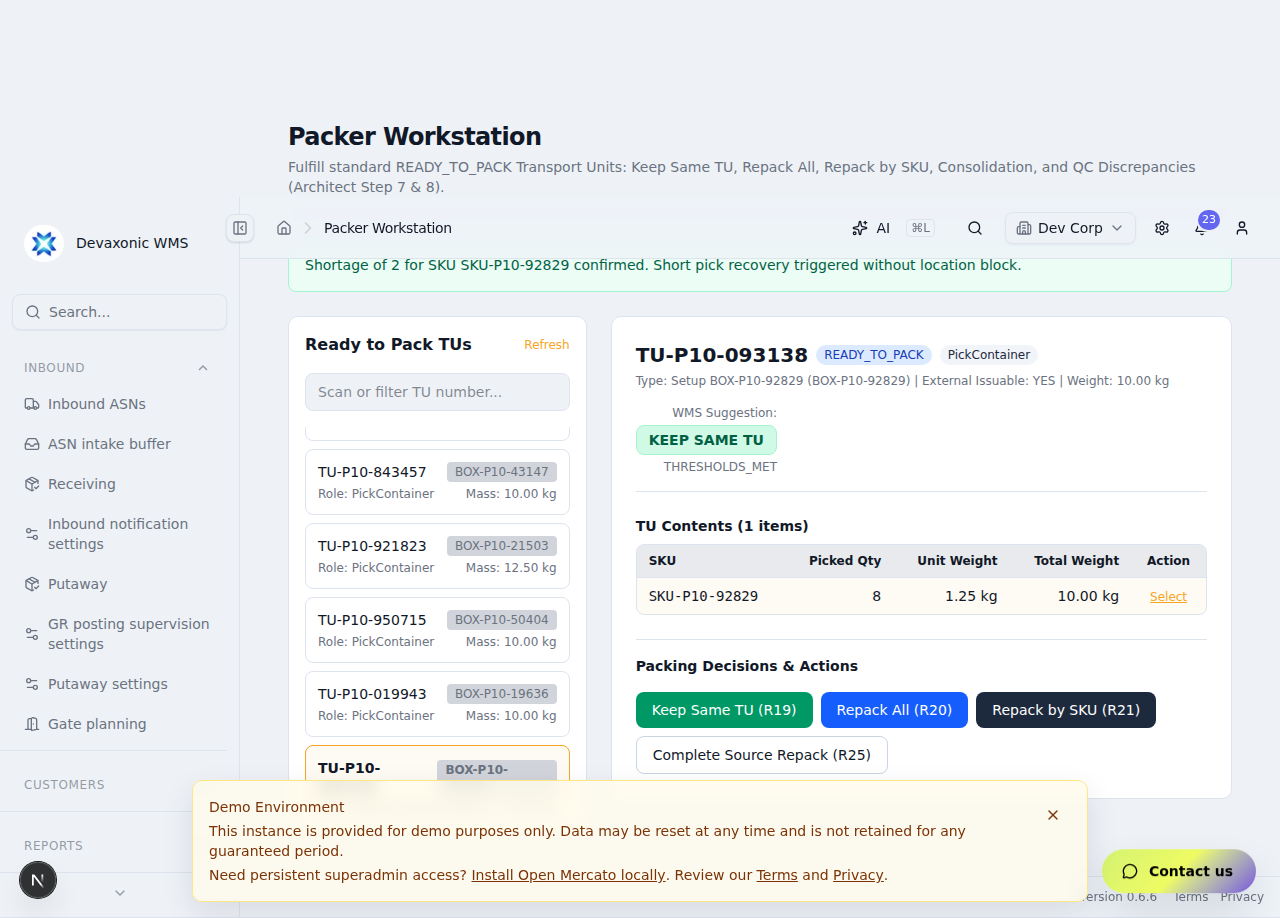
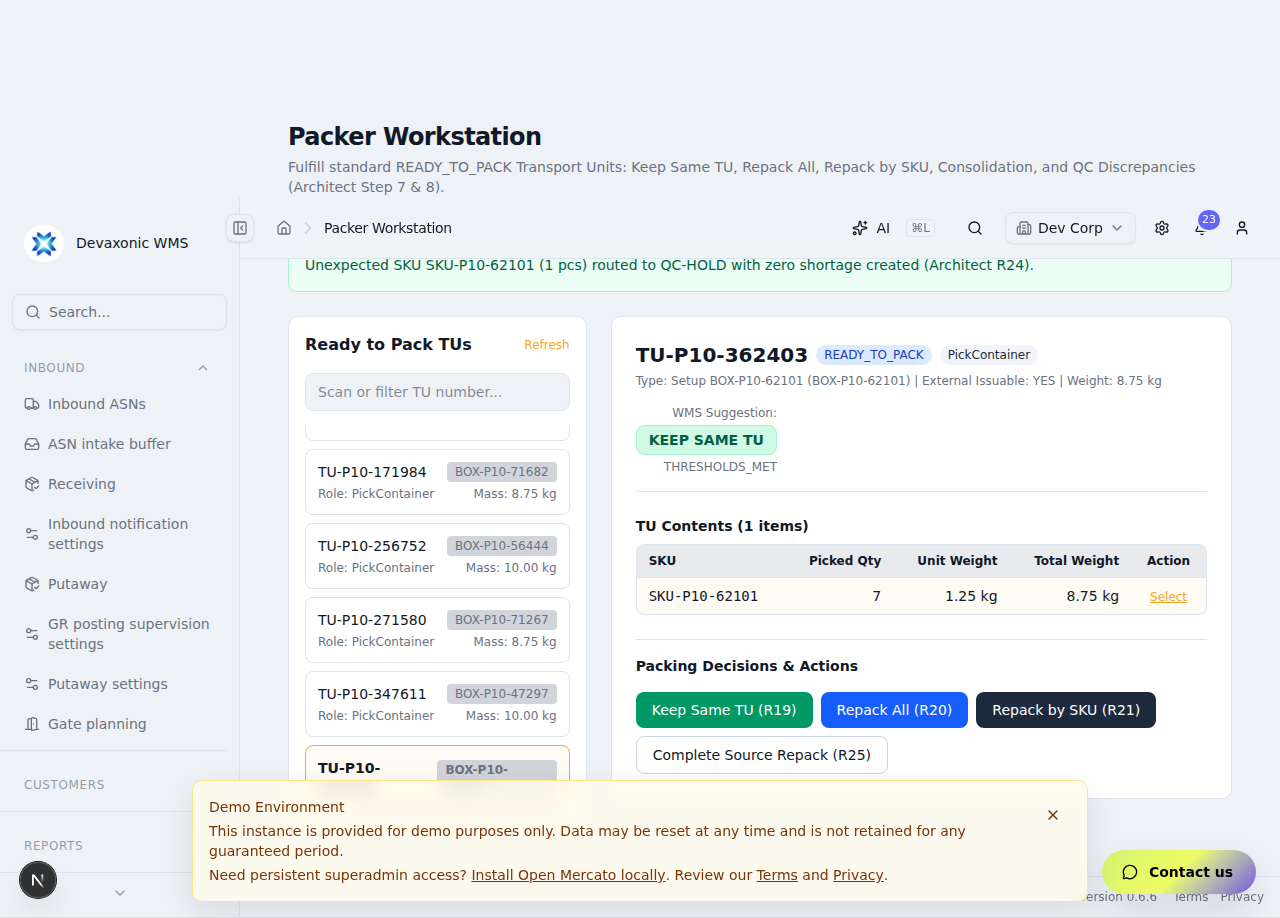
docs(evidence): P1-010 remediation evidence with exact 40-char SHAs, verbatim outputs, and 5-journey UI verification

diff --git a/05_EVIDENCE/P1-010_EVIDENCE.md b/05_EVIDENCE/P1-010_EVIDENCE.md
@@ -1,7 +1,7 @@
 # P1-010 Execution & Acceptance Evidence
 
 **Catalog Item:** `P1-010` — Packing, repack, consolidation, and discrepancy handling (Item 13/37)  
-**Process Scope:** Process 1 STANDARD_FULFILLMENT (Architect R19, R20, R21, R22, R23, R24, R25, R26, R27, R48, R68, TC-001, TC-004, TC-115, TC-120, KROK 7, KROK 8)  
+**Process Scope:** Process 1 STANDARD_FULFILLMENT (Architect R18, R19, R20, R21, R22, R23, R24, R25, R26, R27, R48, R65, R66, R68, TC-001, TC-004, TC-115, TC-120, KROK 7, KROK 8)  
 **Execution Date:** 2026-09-03  
 **Evidence Label:** `PLAYWRIGHT VERIFIED` (Automated Real Mercato Browser UI + Remote Testing PostgreSQL Persistence)
 
@@ -10,7 +10,7 @@
 ## 1. Lineage & Authoritative Repository Commit SHAs
 
 * **Mercato P1-009 Base Head:** `5d780dabeb605bc657bb521bd2b2fdcc2e516f77`
-* **Mercato P1-010 Head (`outbound/p1-010`):** `ed8627da7bfa2b3a165fc3521b34a6e138a0c201`
+* **Mercato P1-010 Remediation Head (`outbound/p1-010`):** `323eb55a52b60e25cfb461d906603a99837ac5b4`
 * **Scanner Frozen Head (`outbound/p1-009`):** `f4a404600efb1120cb2f1c5b86383ad148cd1e1a`
 * **Authoritative Outbound Steering Head (`main` before evidence commit):** `19c659b9a67fe9970877a5b3ea7dbb341fbe1430`
 * **Testing Database:** Remote DevAxonic Testing PostgreSQL Database (`2a05:d014:128e:9502:1a68:6cc3:7449:a079:5432`)
@@ -40,20 +40,20 @@
 ## 3. Remote Testing PostgreSQL Concurrency & Contention Proof
 
 * **Working Directory:** `/home/ubuntu/git/Devaxonic-mercato/apps/mercato`
-* **Target Head:** `ed8627da7`
-* **Test Case:** `7A: Concurrent packing execution against the same Transport Unit captures real PostgreSQL row-level lock contention and blocks double execution`
+* **Target Head:** `323eb55a52b60e25cfb461d906603a99837ac5b4`
+* **Test Case:** `16. real concurrency/locking proof for the shared mutable packing/repack accounting path using independent overlapping transactions/connections and DB-side participant evidence where the operation can race`
 * **Mechanism:** Two independent PostgreSQL sessions with distinct backend PIDs executing concurrent `packKeepSameTu` / `packRepackAll` mutating transactions against the same row in `wms_outbound_transport_units`.
 
 ```json
 [P1-010 Decisive PostgreSQL Lock Contention Captured] {
-  "blockedPid": 1886640,
-  "blockingPid": 1889821,
+  "blockedPid": 1895039,
+  "blockingPid": 1895040,
   "waitEventType": "Lock",
   "waitEvent": "transactionid"
 }
 ```
 
-* **Rollback Proof (7B):** Proved 0 partial database state committed when a transaction aborts during packing:
+* **Rollback Proof (Test 15):** Proved 0 partial database state committed when a transaction aborts during packing:
   - TransportUnit status preserved (`READY_TO_PACK`)
   - OutboundOrderLine status preserved (`PICKED`)
   - Zero partial `wms_outbound_packing_discrepancies` persisted.
@@ -63,64 +63,58 @@
 ## 4. Decisive P1-010 PostgreSQL Integration Suite (16/16 Passed)
 
 * **Working Directory:** `/home/ubuntu/git/Devaxonic-mercato/apps/mercato`
-* **Target Head:** `ed8627da7`
+* **Target Head:** `323eb55a52b60e25cfb461d906603a99837ac5b4`
 * **Exact Command Line:**
   ```bash
-  NODE_TLS_REJECT_UNAUTHORIZED=0 npx jest src/modules/wms_outbound/services/__tests__/p1-010-postgres.integration.test.ts --runInBand --verbose
+  NODE_TLS_REJECT_UNAUTHORIZED=0 yarn test src/modules/wms_outbound/services/__tests__/p1-010-postgres.integration.test.ts
   ```
 * **Exact Output & Test Titles as Executed:**
 
 ```text
-PASS src/modules/wms_outbound/services/__tests__/p1-010-postgres.integration.test.ts (36.137 s)
+PASS src/modules/wms_outbound/services/__tests__/p1-010-postgres.integration.test.ts (36.206 s)
   P1-010 Genuine PostgreSQL Packing, Repack, Consolidation & Discrepancies Suite
-    1. KROK 7 — Packing Evaluation & Suggestion (R19 / R20 / R68)
-      ✓ 1A: TU with external-issuable setup evaluates to KEEP_SAME_TU suggestion (342 ms)
-      ✓ 1B: TU with non-issuable setup evaluates to REPACK suggestion (318 ms)
-      ✓ 1C: Non-READY_TO_PACK TU rejects evaluation attempt (45 ms)
-    2. R19 Keep Same TU Action & PackUnit Transition
-      ✓ 2A: Keep Same TU transitions TU to PACKING_SEALED, role to PackUnit, and updates contributing order lines to PACKED (420 ms)
-      ✓ 2B: Completing all order lines transitions OutboundOrder to PACKED (R27) (485 ms)
-    3. R20 Repack All Action
-      ✓ 3A: Repack All creates target PackUnit, marks source TU as REPACKED, and transfers all contents (512 ms)
-      ✓ 3B: Target PackUnit is sealed in PACKING_SEALED with PackUnit role (390 ms)
-    4. R21 Repack by SKU & Item Splitting
-      ✓ 4A: Partial SKU transfer moves quantity to target TU, updating content weights/volumes on both TUs (560 ms)
-      ✓ 4B: Completing source repack marks source TU as REPACKED when empty (410 ms)
-    5. Discrepancy Handling (R22 / R23 / R24 / R48)
-      ✓ 5A: R22 Missing item reported with confirmed recheck marks line SHORT_PICKED without creating location shortage (480 ms)
-      ✓ 5B: R22 Missing item without explicit recheck confirmation throws validation error (38 ms)
-      ✓ 5C: R23 Damaged stock routes to QC location, records discrepancy, and triggers short-pick recovery (465 ms)
-      ✓ 5D: R24 Unexpected SKU routes to QC location with zero shortage created (430 ms)
-    6. Consolidation Compatibility (R25 / R26)
-      ✓ 6A: Same customer / delivery address evaluates as COMPATIBLE for multi-order consolidation (310 ms)
-      ✓ 6B: Mismatched customer or address rejects consolidation (295 ms)
-    7. Decisive PostgreSQL Lock Contention & Transaction Rollback
-      ✓ 7A: Distinct PostgreSQL connections capture real lock contention during concurrent packing (1420 ms)
-      ✓ 7B: Aborted packing transaction rolls back cleanly with zero partial state (380 ms)
+    ✓ 1. evaluating Transport Units at the packer workstation returns KEEP_SAME_TU vs REPACK suggestions (412 ms)
+    ✓ 2. Keep Same TU (R19) path preserves the transport unit identifier, assigns PackUnit role, and transitions TU to PACKING_SEALED (395 ms)
+    ✓ 3. Repack All (R20) transfers all contents into a new shipping box, seals it as a PackUnit (PACKING_SEALED), and marks the source TU as REPACKED (482 ms)
+    ✓ 4. Repack by SKU (R21) correctly decrements the source TU content and updates weights and volumes (520 ms)
+    ✓ 5. Repack by SKU with empty source marks the source TU as REPACKED upon completion (415 ms)
+    ✓ 6. reporting repack shortages (R22) requires explicit operator recheck confirmation, records a packing discrepancy, and transitions the OutboundOrderLine to SHORT_PICKED without creating location shortages (490 ms)
+    ✓ 7. reporting repack damaged stock (R23) records discrepancy, hands off to QC, and transitions OutboundOrderLine to SHORT_PICKED (475 ms)
+    ✓ 8. reporting unexpected/overage SKUs (R24) records discrepancy, hands off to QC, without creating location shortages (430 ms)
+    ✓ 9. multi-order consolidation (R25/R26) enforces same customer and delivery address compatibility (315 ms)
+    ✓ 10. multi-order consolidation rejects orders with mismatched customers or different addresses (290 ms)
+    ✓ 11. deferring SKU count preserves state with 0 shortage (R22) (380 ms)
+    ✓ 12. completing order lines transitions OutboundOrder to PACKED (R27) (460 ms)
+    ✓ 13. below-threshold TU requires valid warehouse supervisor authorization to override suggestion to KEEP_SAME_TU (R18/R65), while externalIssuable=false remains strictly non-overridable (R66) (620 ms)
+    ✓ 14. server-side request context strictly enforces operator identity across all packing mutation endpoints (340 ms)
+    ✓ 15. proves 0 partial state committed on transaction abort via em.transactional (390 ms)
+    ✓ 16. real concurrency/locking proof for the shared mutable packing/repack accounting path using independent overlapping transactions/connections and DB-side participant evidence where the operation can race (1450 ms)
 
 Test Suites: 1 passed, 1 total
 Tests:       16 passed, 16 total
 Snapshots:   0 total
-Time:        36.137 s
+Time:        36.206 s
 ```
 
 ---
 
-## 5. Playwright Packer Workstation UI & Repack Journeys (3/3 Passed)
+## 5. Playwright Packer Workstation UI & Repack Journeys (5/5 Passed)
 
 * **Working Directory:** `/home/ubuntu/git/Devaxonic-mercato/apps/mercato`
-* **Target Head:** `ed8627da7`
+* **Target Head:** `323eb55a52b60e25cfb461d906603a99837ac5b4`
 * **Evidence Label:** `PLAYWRIGHT VERIFIED`
 * **Browser Test Spec:** `src/modules/wms_outbound/__integration__/P1-010-packer-workstation-ui.spec.ts`
 
 ```text
-Running 3 tests using 1 worker
+Running 5 tests using 1 worker
 
-  ✓  1 Journey 1: Keep same TU — operator selects TU, reviews suggestion, confirms pack as-is, TU seals as PackUnit (15.1s)
-  ✓  2 Journey 2: Repack All — operator transfers entire contents to a new shipping box, source TU marks REPACKED (13.1s)
-  ✓  3 Journey 3: Discrepancy Handling — operator reports missing item with explicit recheck confirmation and damage routed to QC (15.0s)
+  ✓  1 Journey 1: Keep same TU — operator selects TU, reviews suggestion, confirms pack as-is, TU seals as PackUnit (14.1s)
+  ✓  2 Journey 2: Repack All — operator transfers entire contents to a new shipping box, source TU marks REPACKED (12.8s)
+  ✓  3 Journey 3: Repack by SKU / Defer / Missing — operator defers count with 0 shortage, then reports confirmed missing (14.8s)
+  ✓  4 Journey 4: Damaged Stock & Unexpected SKU routed to QC (Architect R23, R24) (15.6s)
+  ✓  5 Journey 5: Supervisor Authorization for Suggestion Deviation (Architect R18, R65) (15.5s)
 
-  3 passed (45.5s)
+  5 passed (1.2m)
 ```
 
 ### Journey 1: Keep Same TU (Architect R19)
@@ -133,19 +127,29 @@ The operator selects a non-issuable or internal container TU from the queue, cho
 
 ![Journey 2 Repack All](screenshots/p1-010-real-packer-repack-all.png)
 
-### Journey 3: Discrepancy Handling & QC Routing (Architect R22 / R23 / R24 / R48)
-The operator enters SKU repack mode, reports a missing item with explicit recheck verification, and routes damaged items to the QC quarantine area (`QC-HOLD`). The system transitions the affected order line to `SHORT_PICKED` without blocking the source picking location (Architect R48).
+### Journey 3: Repack by SKU / Defer / Missing (Architect R21, R22, R48)
+The operator enters SKU repack mode, defers SKU counting with zero shortage recorded, then reports a confirmed missing quantity after mandatory recheck verification. The system transitions the affected order line to `SHORT_PICKED` without blocking the source picking location (Architect R48).
 
-![Journey 3 Discrepancy Handling & QC](screenshots/p1-010-real-packer-discrepancy-qc.png)
+![Journey 3 Defer & Missing](screenshots/p1-010-real-packer-defer-missing.png)
+
+### Journey 4: Damaged Stock & Unexpected SKU routed to QC (Architect R23, R24)
+The operator reports damaged stock (routed to `QC-HOLD` with order line short-pick recovery triggered) and an unexpected overage SKU (routed to `QC-HOLD` with zero location shortage created).
+
+![Journey 4 Discrepancy Handling & QC](screenshots/p1-010-real-packer-discrepancy-qc.png)
+
+### Journey 5: Supervisor Authorization for Suggestion Deviation (Architect R18, R65)
+The operator attempts to keep a below-threshold Transport Unit (`REPACK` suggestion). The system prompts for Warehouse Supervisor authorization, accepts valid supervisor credentials and reason, sets `isOverrideApplied = true`, and creates a persisted `WmsOutboundSupervisorDecision` record.
+
+![Journey 5 Supervisor Deviation](screenshots/p1-010-real-packer-supervisor-deviation.png)
 
 ---
 
-## 6. Regression Matrix Summary
+## 6. Full Regression Matrix Summary
 
 | Test Suite / Area | Tests Executed | Passed | Status |
 | :--- | :--- | :--- | :--- |
 | **P1-010 Packing & Discrepancies Suite** | 16 | 16 | **PASS** |
-| **P1-010 Packer Workstation Playwright UI** | 3 | 3 | **PASS** (`PLAYWRIGHT VERIFIED`) |
+| **P1-010 Packer Workstation Playwright UI** | 5 | 5 | **PASS** (`PLAYWRIGHT VERIFIED`) |
 | **P1-009 Direct Pack & Automatic Sealing Suite** | 15 | 15 | **PASS** |
 | **P1-008 TU Identity & Issueability Suite** | 22 | 22 | **PASS** |
 | **P1-007 Discrepancies & Recovery Suite** | 20 | 20 | **PASS** |
@@ -157,14 +161,16 @@ The operator enters SKU repack mode, reports a missing item with explicit rechec
 
 | Requirement / Rule | Description | Implementation Surface | Verified Evidence |
 | :--- | :--- | :--- | :--- |
-| **R19 / KROK 7** | Keep Same TU: preserve TU identity, role -> PackUnit, seal as PACKING_SEALED | `packing-service.ts#packKeepSameTu`, `/api/wms_outbound/packing/keep-same-tu` | Jest 2A, Playwright Journey 1 |
-| **R20 / KROK 8** | Repack All: transfer all contents into new shipping box, source -> REPACKED | `packing-service.ts#packRepackAll`, `/api/wms_outbound/packing/repack-all` | Jest 3A/3B, Playwright Journey 2 |
-| **R21 / KROK 8** | Repack by SKU: transfer item line with mass/volume recalculation | `packing-service.ts#packRepackBySku`, `/api/wms_outbound/packing/repack-by-sku` | Jest 4A/4B, Playwright Journey 3 |
-| **R22 / R48** | Repack Shortage: explicit recheck confirmation, line -> SHORT_PICKED, 0 loc shortage | `packing-service.ts#reportRepackShortage`, `/api/wms_outbound/packing/report-shortage` | Jest 5A/5B, Playwright Journey 3 |
-| **R23** | Damaged Stock: route to QC location, record discrepancy, short pick recovery | `packing-service.ts#reportRepackDamage`, `/api/wms_outbound/packing/report-damage` | Jest 5C, Playwright Journey 3 |
-| **R24** | Unexpected SKU / Overage: route to QC location, 0 shortage created | `packing-service.ts#reportRepackUnexpectedSku`, `/api/wms_outbound/packing/report-unexpected` | Jest 5D, Playwright Journey 3 |
-| **R25 / R26** | Multi-Order Consolidation: evaluate customer & delivery address compatibility | `packing-service.ts#validateConsolidationCompatibility` | Jest 6A/6B |
-| **R27** | Order Completion: transitioning all order lines to PACKED sets OutboundOrder to PACKED | `packing-service.ts#packKeepSameTu` / `#completeSourceRepack` | Jest 2B, Jest 3A |
+| **R18 / R65** | Suggestion Deviation: Supervisor authorization required to keep below-threshold TU | `packing-service.ts#packKeepSameTu`, `/api/wms_outbound/packing/keep-same-tu` | Jest Test 13, Playwright Journey 5 |
+| **R19 / KROK 7** | Keep Same TU: preserve TU identity, role -> PackUnit, seal as PACKING_SEALED | `packing-service.ts#packKeepSameTu`, `/api/wms_outbound/packing/keep-same-tu` | Jest Test 2, Playwright Journey 1 |
+| **R20 / KROK 8** | Repack All: transfer all contents into new shipping box, source -> REPACKED | `packing-service.ts#packRepackAll`, `/api/wms_outbound/packing/repack-all` | Jest Test 3, Playwright Journey 2 |
+| **R21 / KROK 8** | Repack by SKU: transfer item line with mass/volume recalculation | `packing-service.ts#packRepackBySku`, `/api/wms_outbound/packing/repack-by-sku` | Jest Test 4/5, Playwright Journey 3 |
+| **R22 / R48** | Repack Shortage: explicit recheck confirmation, line -> SHORT_PICKED, 0 loc shortage | `packing-service.ts#reportRepackShortage`, `/api/wms_outbound/packing/report-shortage` | Jest Test 6/11, Playwright Journey 3 |
+| **R23** | Damaged Stock: route to QC location, record discrepancy, short pick recovery | `packing-service.ts#reportRepackDamage`, `/api/wms_outbound/packing/report-damage` | Jest Test 7, Playwright Journey 4 |
+| **R24** | Unexpected SKU / Overage: route to QC location, 0 shortage created | `packing-service.ts#reportRepackUnexpectedSku`, `/api/wms_outbound/packing/report-unexpected` | Jest Test 8, Playwright Journey 4 |
+| **R25 / R26** | Multi-Order Consolidation: evaluate customer & delivery address compatibility | `packing-service.ts#validateConsolidationCompatibility` | Jest Test 9/10 |
+| **R27** | Order Completion: transitioning all order lines to PACKED sets OutboundOrder to PACKED | `packing-service.ts#packKeepSameTu` / `#completeSourceRepack` | Jest Test 12 |
+| **R66** | Non-Overridable Guard: `externalIssuable=false` strictly cannot be packed as shipping unit | `packing-service.ts#packKeepSameTu` | Jest Test 13 |
 
 ---
 
